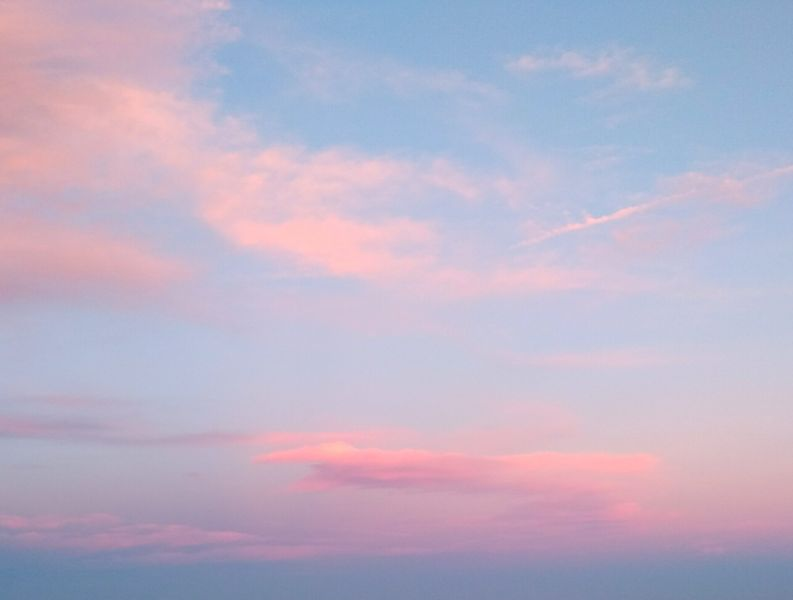
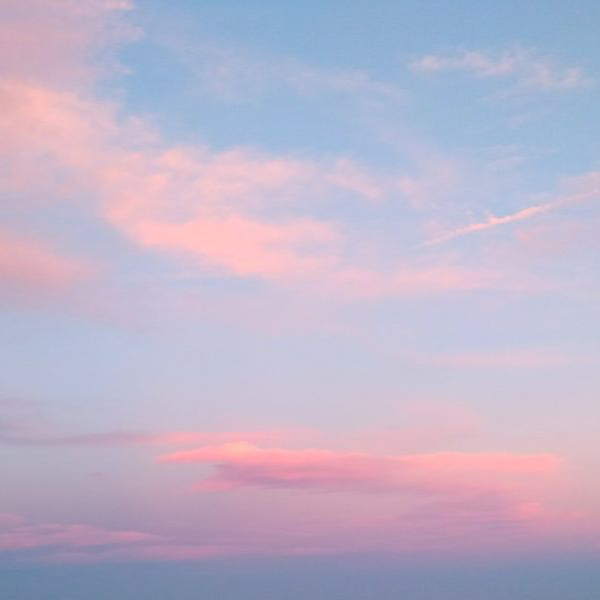
PaletteクラスとSorterクラスを作成

diff --git a/skyPalette/src/ofApp.cpp b/skyPalette/src/ofApp.cpp
@@ -2,37 +2,9 @@
 
 //--------------------------------------------------------------
 void ofApp::setup(){
-    ofSetWindowShape(793, 600);
-    
+    ofSetWindowShape(600, 600);
     img.load("sky.jpg");
-    ofColor color;
-    
-    for(int i = 0; i < ofGetHeight(); i++){
-        for(int j = 0; j < ofGetWidth(); j++){
-            hues.push_back(img.getColor(i, j).getHue());
-        }
-    }
-    
-    sort(hues.begin(), hues.end());
-    
-    for(int i = 0; i < ofGetHeight(); i++){
-        for(int j = 0; j < ofGetWidth(); j++){
-            ofColor color;
-            color.setHsb(hues[793*i + j], 170, 255);
-            colors.push_back(color);
-        }
-    }
-    
-//    for(int i = 0; i < ofGetHeight(); i++){
-//        for(int j = 0; j < ofGetWidth(); j++){
-//            ofLog() << colors[793*i + j];
-//        }
-//    }
-//    for(int i = 0; i < ofGetHeight(); i++){
-//        for(int j = 0; j < ofGetWidth(); j++){
-//            ofLog() << hues[793 * i + j];
-//        }
-//    }
+    //paletteクラスとsortクラスを作った。paletteクラスはパレット表示のみ。sortクラスはソート用。
 }
 
 //--------------------------------------------------------------
@@ -42,17 +14,14 @@ void ofApp::update(){
 
 //--------------------------------------------------------------
 void ofApp::draw(){
-    for(int i = 0; i < ofGetHeight(); i++){
-        for(int j = 0; j < ofGetWidth(); j++){
-            ofSetColor(colors[793*i + j]);
-            ofDrawRectangle(i, j, 1, 1);
-        }
-    }
+    
 }
 
 //--------------------------------------------------------------
 void ofApp::keyPressed(int key){
-    
+    if (key == '1'){
+//        palette.hueSort();
+    }
 }
 
 //--------------------------------------------------------------

diff --git a/skyPalette/src/ofApp.h b/skyPalette/src/ofApp.h
@@ -1,6 +1,7 @@
 #pragma once
 
 #include "ofMain.h"
+#include "Palette.hpp"
 
 class ofApp : public ofBaseApp{
 
@@ -21,10 +22,10 @@ class ofApp : public ofBaseApp{
 		void dragEvent(ofDragInfo dragInfo);
 		void gotMessage(ofMessage msg);
     
-    vector<ofColor> colors;
-    vector<float> hues;
-    int colorNum = 5;
-    
+    vector< ofColor > colors;
     ofImage img;
-		
+    float step;
+    float noise;
+    
+    Palette palette;
 };

diff --git a/skyPalette/src/Palette/Palette.hpp b/skyPalette/src/Palette/Palette.hpp
@@ -1,0 +1,25 @@
+//
+//  Palette.hpp
+//  skyPalette
+//
+//  Created by kota on 2020/06/11.
+//
+
+#ifndef Palette_hpp
+#define Palette_hpp
+
+#include <stdio.h>
+#include "ofMain.h"
+
+#endif /* Palette_hpp */
+
+class Palette{
+private:
+    ofColor color;
+    vector < ofColor > colors;
+    
+public:
+    Palette();
+    bool compareHue(const ofColor& c1, const ofColor& c2);
+    void hueSort(vector<ofColor>& _colors);
+};

diff --git a/skyPalette/src/Palette/Palette.cpp b/skyPalette/src/Palette/Palette.cpp
@@ -1,0 +1,21 @@
+//
+//  Palette.cpp
+//  skyPalette
+//
+//  Created by kota on 2020/06/11.
+//
+
+#include "Palette.hpp"
+
+Palette::Palette(){
+    
+};
+
+bool Palette::compareHue(const ofColor& c1, const ofColor& c2){
+    return c1.getHue() < c2.getHue();
+}
+
+
+void Palette::hueSort(vector<ofColor>& _colors){
+//    ofSort(_colors, Palette::compareName);
+}

diff --git a/skyPalette/src/Sorter/Sorter.hpp b/skyPalette/src/Sorter/Sorter.hpp
@@ -1,0 +1,21 @@
+//
+//  Sorter.hpp
+//  skyPalette
+//
+//  Created by kota on 2020/06/11.
+//
+
+#ifndef Sorter_hpp
+#define Sorter_hpp
+
+#include <stdio.h>
+#include "ofMain.h"
+
+#endif /* Sorter_hpp */
+
+class Sorter{
+private:
+public:
+    Sorter();
+};
+

diff --git a/skyPalette/src/Sorter/Sorter.cpp b/skyPalette/src/Sorter/Sorter.cpp
@@ -1,0 +1,12 @@
+//
+//  Sorter.cpp
+//  skyPalette
+//
+//  Created by kota on 2020/06/11.
+//
+
+#include "Sorter.hpp"
+
+Sorter::Sorter(){
+    
+}
